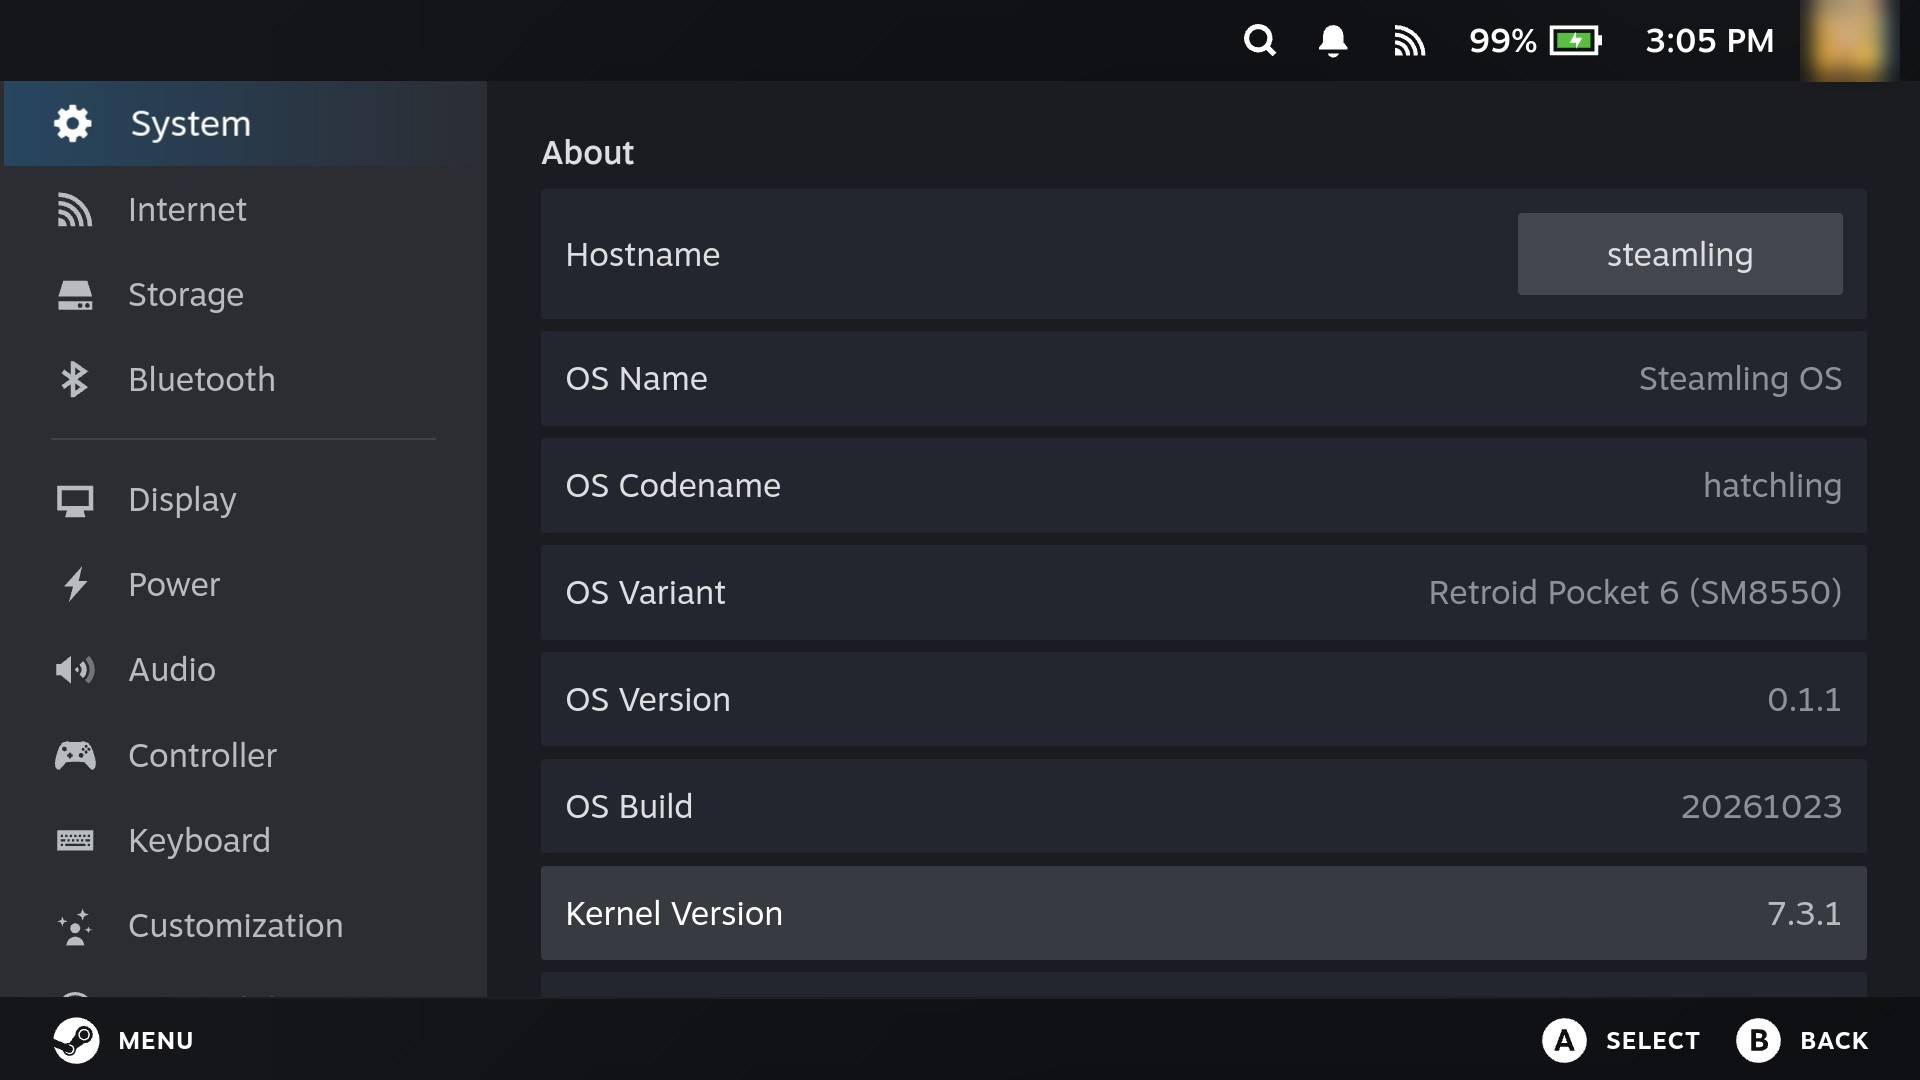
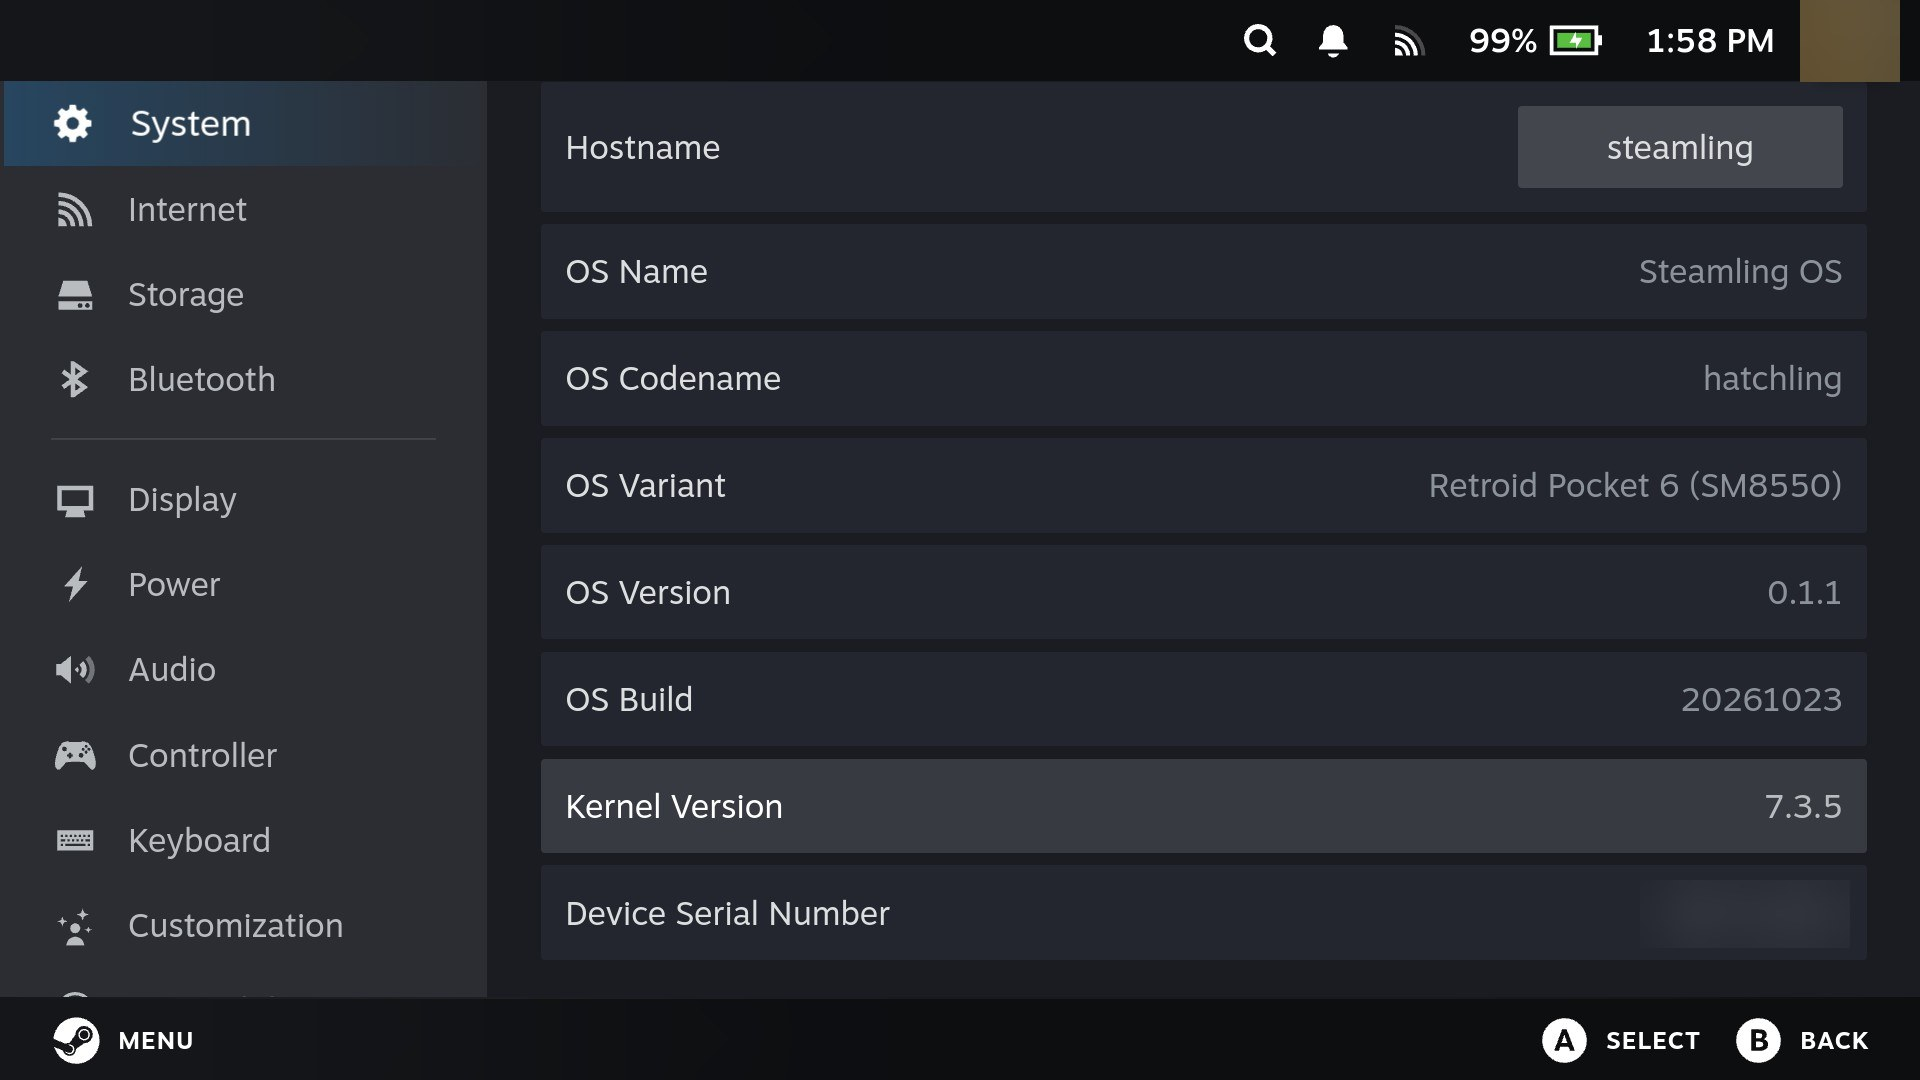
docs: retake the Steam System settings shot on kernel 7.3.5
The serial number is blurred along with the avatar.

diff --git a/docs/governor.md b/docs/governor.md
@@ -344,7 +344,7 @@ on internal storage is the OpenABL this build ships. Handy when you're filing a 
 Steam's own **Settings → System** page shows the same details too: the OS name, the release
 codename, which handheld it is under **OS Variant**, the version, the build date and the kernel.
 
-![Steam's System settings: Steamling OS, codename hatchling, OS Variant Retroid Pocket 6 (SM8550), version 0.1.1 and kernel 7.3.1](images/steam-settings-system.jpeg)
+![Steam's System settings: Steamling OS, codename hatchling, OS Variant Retroid Pocket 6 (SM8550), version 0.1.1 and kernel 7.3.5](images/steam-settings-system.jpeg)
 
 **Restart Game Mode** closes Steam and brings game mode back up, for the times Steam or the
 screen gets stuck. Anything unsaved in a running game is lost.
